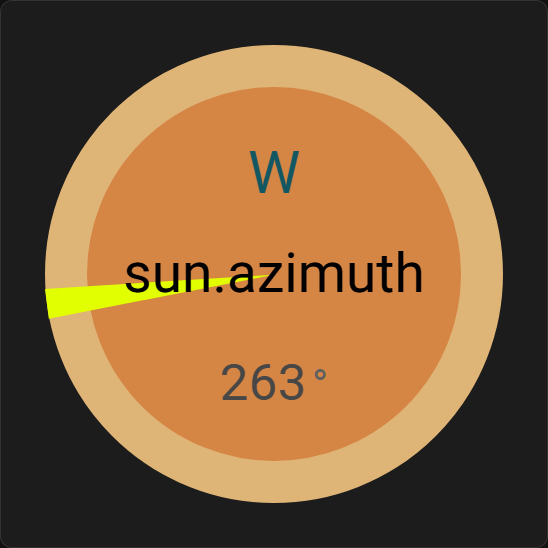
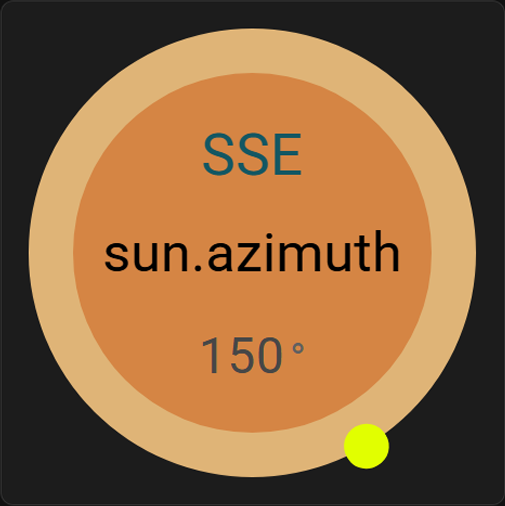
Release 2.5.19: Fixed arrow position scaling

diff --git a/custom-compass-card.js b/custom-compass-card.js
@@ -1,7 +1,7 @@
 import { LitElement, html, css } from 'https://unpkg.com/lit@2.0.0/index.js?module';
 
 // ─── Card Version ─────────────────────────────────────────────────────────────
-const CARD_VERSION = '2.5.17';
+const CARD_VERSION = '2.5.19';
 
 // ─── Default Configuration ────────────────────────────────────────────────────
 const DEFAULT_CONFIG = {
@@ -613,16 +613,17 @@ class CustomCompassCard extends LitElement {
     // Set arrow CSS variables
     const initW = parseFloat(this.config.arrow_width)  || 3;
     const initH = parseFloat(this.config.arrow_height) || 17;
+    const initPos = parseFloat(this.config.arrow_position) || 0;
     const color = this.config.arrow_color || '#E0E0E0';
 
     const scaledW   = initW   * scale;
     const scaledH   = initH   * scale;
-    const arrowPos  = parseFloat(this.config.arrow_position) || 0;
+    const scaledPos = initPos * scale;
 
     this.style.setProperty('--cc-arrow-width',     `${scaledW}px`);
     this.style.setProperty('--cc-arrow-height',    `${scaledH}px`);
     this.style.setProperty('--cc-arrow-color',     color);
-    this.style.setProperty('--cc-arrow-position',  `${arrowPos}px`);
+    this.style.setProperty('--cc-arrow-position',  `${scaledPos}px`);
   }
 
   async _evaluateTemplate(template, degrees) {
@@ -862,10 +863,10 @@ class CustomCompassCard extends LitElement {
     }
     .compass-arrow-wrapper {
       position: absolute;
-      top: 8%;
-      left: 8%;
-      right: 8%;
-      bottom: 8%;
+      top: calc(8% - var(--cc-border-size, 0px));
+      left: calc(8% - var(--cc-border-size, 0px));
+      right: calc(8% - var(--cc-border-size, 0px));
+      bottom: calc(8% - var(--cc-border-size, 0px));
       display: flex;
       justify-content: center;
       align-items: center;
